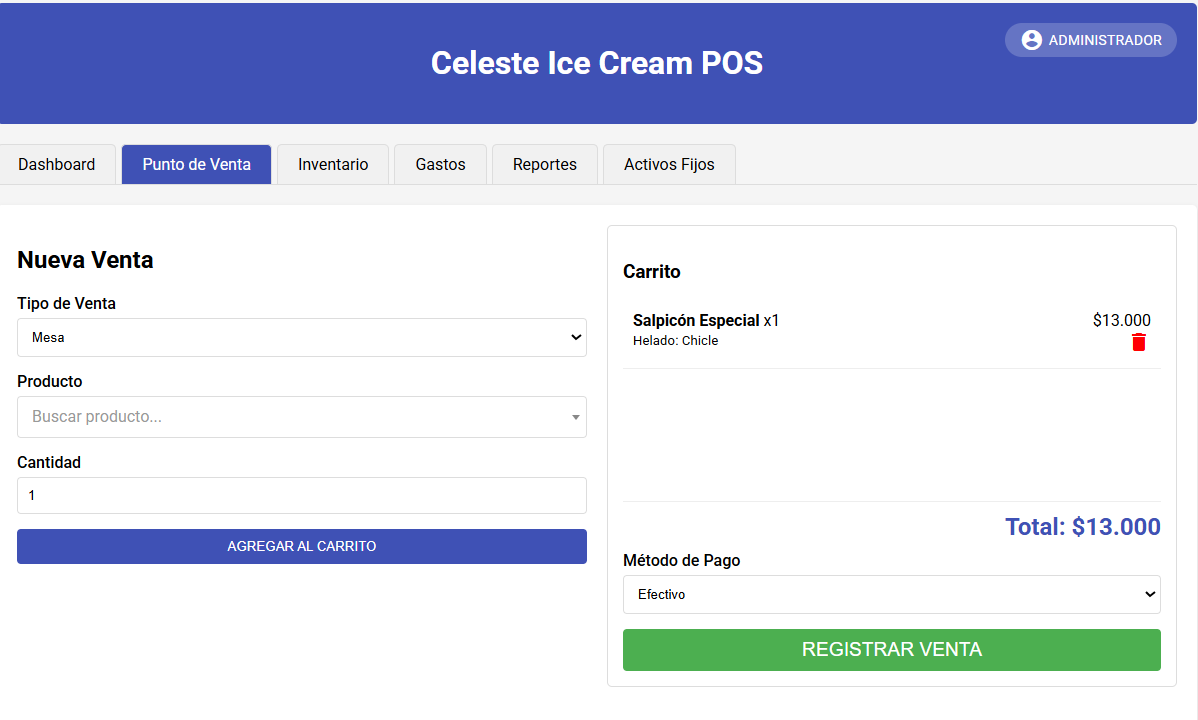
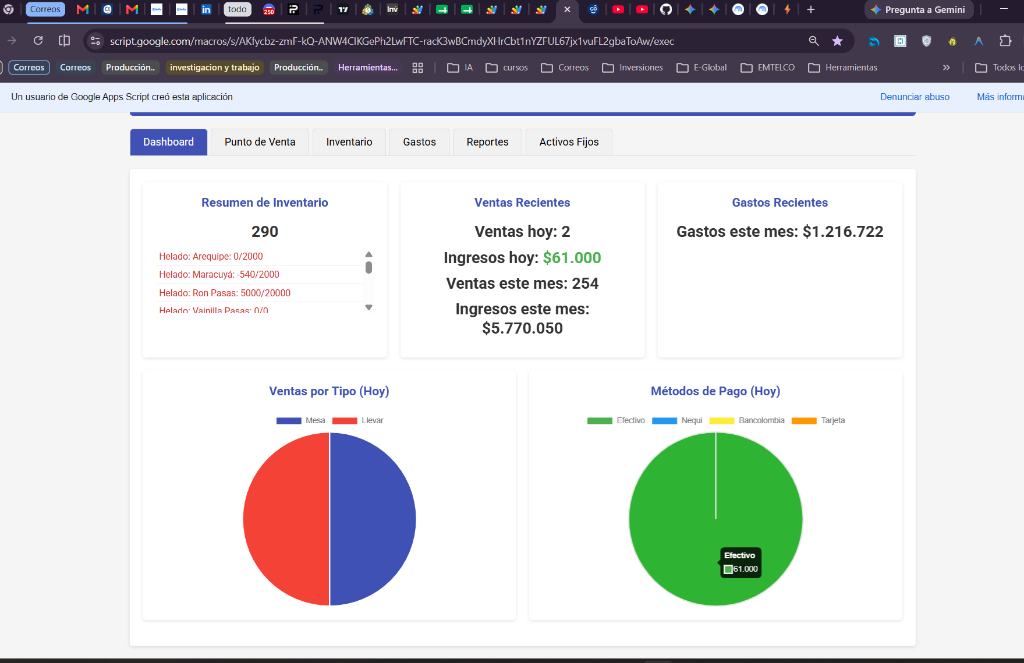
feat: Add advanced POS edit features, auto-payment method and double submission protection

diff --git a/index.html b/index.html
@@ -122,6 +122,10 @@
         <div class="dashboard-card">
           <h3>Gastos Recientes</h3>
           <p>Gastos este mes: <span id="month-expenses">0</span></p>
+          <div style="margin-top: 15px; padding-top: 15px; border-top: 1px solid #eee;">
+            <h4 style="margin: 0; color: #3f51b5;">Balance del Mes</h4>
+            <p style="font-size: 20px; font-weight: bold;">Margen: <span id="month-balance" style="color: #3f51b5;">$0</span></p>
+          </div>
         </div>
       </div>
       
@@ -149,6 +153,10 @@
             </select>
           </div>
           <div class="form-group">
+            <label>Cliente / Mesa (Opcional)</label>
+            <input type="text" id="customer-name" placeholder="Ej: Juan o Mesa 3">
+          </div>
+          <div class="form-group">
             <label>Producto</label>
             <select id="product-select" style="width:100%"><option></option></select>
           </div>
@@ -164,7 +172,7 @@
         </div>
         
         <div style="background:#fff; padding:15px; border-radius:5px; border:1px solid #ddd;"> 
-          <h3>Carrito</h3>
+          <h3 id="cart-title">Carrito</h3>
           <div id="cart-list" style="min-height:200px; max-height:400px; overflow-y:auto; border-bottom:1px solid #eee; margin-bottom:10px;">
             <p style="text-align:center; padding:20px; color:#999">Carrito Vacío</p>
           </div>
@@ -182,6 +190,11 @@
           </div>
           <button class="btn-success" onclick="processSale()" style="width:100%; font-size:1.2em">REGISTRAR VENTA</button>
         </div>
+      </div>
+
+      <div style="margin-top: 20px;">
+        <h3>Últimos Pedidos (20)</h3>
+        <div id="recent-orders-list"></div>
       </div>
     </div>
     
@@ -268,6 +281,9 @@
     let ACTIVE_USER = "Desconocido";
     let products = [], flavors = [], cart = [];
     let chart1 = null, chart2 = null;
+    let currentOrderId = null;
+    let recentOrdersData = [];
+    let editingRegisteredRowIndex = null;
 
     $(document).ready(function() {
       let storedUser = localStorage.getItem('celeste_pos_user');
@@ -321,7 +337,7 @@
       $(`.tab[data-tab="${tab}"]`).addClass('active');
       $('.tab-content').hide();
       $(`#${tab}-content`).fadeIn();
-      if(tab === 'pos') { loadProducts(); loadFlavors(); }
+      if(tab === 'pos') { loadProducts(); loadFlavors(); loadRecentOrders(); }
       if(tab === 'inventory') loadInventory();
       if(tab === 'expenses') loadExpenses();
       if(tab === 'assets') loadAssets();
@@ -339,11 +355,12 @@
       $('#month-sales-count').text(data.monthSalesCount);
       $('#month-revenue').text(data.monthRevenue);
       $('#month-expenses').text(data.monthExpenses);
+      $('#month-balance').text(data.monthBalance);
       
       if(chart1) chart1.destroy();
       chart1 = new Chart(document.getElementById('sale-type-chart'), { type: 'pie', data: { labels: ['Mesa', 'Llevar'], datasets: [{ data: [data.todayMesaCount, data.todayLlevarCount], backgroundColor: ['#3f51b5', '#f44336'] }] }, options: { responsive: true, maintainAspectRatio: false } });
       if(chart2) chart2.destroy();
-      const pData = [parseInt(data.paymentMethodsToday.EFECTIVO.replace(/\D/g,''))||0, parseInt(data.paymentMethodsToday.NEQUI.replace(/\D/g,''))||0, parseInt(data.paymentMethodsToday.BANCOLOMBIA.replace(/\D/g,''))||0, parseInt(data.paymentMethodsToday.TARJETA.replace(/\D/g,''))||0];
+      const pData = [parseInt(String(data.paymentMethodsToday.EFECTIVO).replace(/\D/g,''))||0, parseInt(String(data.paymentMethodsToday.NEQUI).replace(/\D/g,''))||0, parseInt(String(data.paymentMethodsToday.BANCOLOMBIA).replace(/\D/g,''))||0, parseInt(String(data.paymentMethodsToday.TARJETA).replace(/\D/g,''))||0];
       chart2 = new Chart(document.getElementById('payment-method-chart'), { type: 'pie', data: { labels: ['Efectivo', 'Nequi', 'Bancolombia', 'Tarjeta'], datasets: [{ data: pData, backgroundColor: ['#4caf50', '#2196f3', '#ffeb3b', '#ff9800'] }] }, options: { responsive: true, maintainAspectRatio: false } });
     }
 
@@ -356,6 +373,7 @@
       }).getProducts();
     }
     function loadFlavors() { google.script.run.withSuccessHandler(res => flavors = res).getFlavors(); }
+    
     function onProductSelect() {
       const id = $('#product-select').val();
       const p = products.find(x => x.id === id);
@@ -371,6 +389,7 @@
         }
       } else { $('#flavor-section').hide(); }
     }
+    
     function addToCart() {
       const id = $('#product-select').val();
       if(!id) return showNotif("Selecciona producto", true);
@@ -383,28 +402,142 @@
         $('.flav-sel').each((i, el) => { if($(el).val()) flavs.push($(el).val()); });
         if(flavs.length < p.CANTIDAD_BOLAS) return showNotif("Faltan sabores", true);
       }
-      cart.push({ product: p, name: p.name, qty: qty, price: price, total: price*qty, flavors: flavs });
+      cart.push({ id_cart: Date.now(), product: p, name: p.name, qty: qty, price: price, total: price*qty, flavors: flavs, editRowIndex: editingRegisteredRowIndex });
+      editingRegisteredRowIndex = null;
       renderCart();
       $('#product-select').val(null).trigger('change'); $('#qty').val(1); $('#flavor-section').hide();
     }
+    
     function renderCart() {
       const $list = $('#cart-list'); $list.empty(); let total = 0;
       cart.forEach((item, idx) => {
         total += item.total;
-        $list.append(`<div style="padding:10px; border-bottom:1px solid #eee; display:flex; justify-content:space-between;"><div><b>${item.name}</b> x${item.qty}<br><small>${item.flavors.join(', ')}</small></div><div style="text-align:right">$${formatMoney(item.total)}<br><i class="material-icons" style="color:red; cursor:pointer;" onclick="remItem(${idx})">delete</i></div></div>`);
+        $list.append(`<div style="padding:10px; border-bottom:1px solid #eee; display:flex; justify-content:space-between;"><div><b>${item.name}</b> x${item.qty}<br><small>${item.flavors.join(', ')}</small></div><div style="text-align:right">$${formatMoney(item.total)}<br><i class="material-icons" style="color:#3f51b5; cursor:pointer; margin-right:5px;" title="Editar" onclick="editItem(${idx})">edit</i><i class="material-icons" style="color:red; cursor:pointer;" title="Eliminar" onclick="remItem(${idx})">delete</i></div></div>`);
       });
       $('#cart-total').text(formatMoney(total));
     }
+    
     function remItem(i) { cart.splice(i,1); renderCart(); }
+    
+    function editItem(i) {
+      const item = cart[i];
+      $('#product-select').val(item.product.id).trigger('change');
+      onProductSelect();
+      $('#qty').val(item.qty);
+      setTimeout(() => {
+        if(item.product.CANTIDAD_BOLAS > 0 && item.flavors && item.flavors.length > 0) {
+          $('.flav-sel').each((idx, el) => {
+             $(el).val(item.flavors[idx] || '');
+          });
+        }
+      }, 100);
+      editingRegisteredRowIndex = item.editRowIndex || null;
+      remItem(i);
+    }
+    
     function updateCartPrices() {
        const type = $('#sale-type').val();
        cart.forEach(item => { item.price = type === 'MESA' ? item.product.PRECIO_MESA : item.product.PRECIO_LLEVAR; item.total = item.price * item.qty; });
        renderCart();
     }
+    
     function processSale() {
       if(cart.length === 0) return showNotif("Carrito vacío", true);
-      const sale = { items: cart, type: $('#sale-type').val(), payMethod: $('#payment-method').val(), user: ACTIVE_USER };
-      google.script.run.withSuccessHandler(() => { cart = []; renderCart(); showNotif("Venta registrada!"); }).withFailureHandler(e => showNotif(e.message, true)).registerSale(sale);
+      const sale = { 
+         items: cart, type: $('#sale-type').val(), payMethod: $('#payment-method').val(), 
+         user: ACTIVE_USER, customer: $('#customer-name').val(), orderId: currentOrderId 
+      };
+      
+      const btn = $('.btn-success');
+      btn.prop('disabled', true).text('PROCESANDO...');
+      
+      google.script.run.withSuccessHandler(() => { 
+         cart = []; 
+         currentOrderId = null;
+         editingRegisteredRowIndex = null;
+         $('#customer-name').val('');
+         $('#cart-title').text('Carrito');
+         renderCart(); 
+         loadRecentOrders();
+         showNotif("Venta registrada!"); 
+         btn.prop('disabled', false).text('REGISTRAR VENTA');
+      }).withFailureHandler(e => {
+         showNotif(e.message, true);
+         btn.prop('disabled', false).text('REGISTRAR VENTA');
+      }).registerSale(sale);
+    }
+    
+    function loadRecentOrders() {
+      $('#recent-orders-list').html('<p>Cargando pedidos recientes...</p>');
+      google.script.run
+        .withSuccessHandler(renderRecentOrders)
+        .withFailureHandler(e => { $('#recent-orders-list').html('<p style="color:red">Error: '+e.message+'</p>'); })
+        .getRecentOrders();
+    }
+
+    function renderRecentOrders(orders) {
+      recentOrdersData = orders;
+      if(!orders || orders.length === 0) {
+        $('#recent-orders-list').html('<p>No hay pedidos recientes.</p>'); return;
+      }
+      let html = '<div style="display: flex; gap: 15px; overflow-x: auto; padding-bottom: 10px;">';
+      orders.forEach(o => {
+        let itemsHtml = o.items.map((i, idx) => `
+          <li style="margin-bottom:3px; display:flex; justify-content:space-between; align-items:center; border-bottom:1px dashed #eee; padding-bottom:3px;">
+            <span>${i.qty}x ${i.name} ${i.flavors ? '<br><small style="color:#666">('+i.flavors+')</small>' : ''}</span>
+            <i class="material-icons" style="color:#3f51b5; cursor:pointer; font-size:18px; padding-left:5px;" title="Editar item" onclick="editRegisteredItem('${o.id}', ${idx})">edit</i>
+          </li>`).join('');
+        html += `
+          <div style="background: white; border: 1px solid #ddd; padding: 15px; border-radius: 5px; min-width: 250px; flex-shrink: 0;">
+            <h4 style="margin:0 0 5px 0; color: #3f51b5;">${o.customer || 'Sin Nombre / Mesa'}</h4>
+            <p style="margin: 0 0 10px 0; font-size: 0.8em; color: #777;">ID: ${o.id}</p>
+            <ul style="margin: 0 0 10px 0; padding-left: 0; font-size: 0.9em; max-height: 120px; overflow-y: auto; list-style:none;">
+              ${itemsHtml}
+            </ul>
+            <p style="margin: 0 0 10px 0; font-weight: bold;">Total: $${formatMoney(o.total)}</p>
+            <button style="width:100%; padding: 8px; font-size:0.9em;" onclick="addToExistingOrder('${o.id}', '${o.customer || ''}', '${o.type}', '${o.payMethod}')">Agregar a este pedido</button>
+          </div>
+        `;
+      });
+      html += '</div>';
+      $('#recent-orders-list').html(html);
+    }
+
+    function editRegisteredItem(orderId, itemIdx) {
+       const order = recentOrdersData.find(o => o.id === orderId);
+       if(!order) return;
+       const item = order.items[itemIdx];
+       
+       addToExistingOrder(order.id, order.customer, order.type, order.payMethod);
+       
+       const p = products.find(x => x.name === item.name);
+       if(!p) return showNotif("Producto no encontrado en BD", true);
+       
+       $('#product-select').val(p.id).trigger('change');
+       onProductSelect();
+       $('#qty').val(item.qty);
+       
+       setTimeout(() => {
+         if(p.CANTIDAD_BOLAS > 0 && item.flavors) {
+           const flavArr = item.flavors.split(',');
+           $('.flav-sel').each((idx, el) => {
+              $(el).val(flavArr[idx] ? flavArr[idx].trim() : '');
+           });
+         }
+       }, 100);
+       
+       editingRegisteredRowIndex = item.rowIndex;
+       showNotif("Editando producto del pedido...");
+    }
+
+    function addToExistingOrder(orderId, customer, type, payMethod) {
+      currentOrderId = orderId;
+      $('#customer-name').val(customer);
+      if (type) $('#sale-type').val(type).trigger('change');
+      if (payMethod) $('#payment-method').val(payMethod).trigger('change');
+      $('#cart-title').text('Carrito (Modificando: ' + (customer || orderId) + ')');
+      window.scrollTo({ top: 0, behavior: 'smooth' });
+      if(!editingRegisteredRowIndex) showNotif("Agregando a pedido existente");
     }
 
     function runReport() {

diff --git a/README.md b/README.md
@@ -9,6 +9,17 @@ Desarrollado con una arquitectura **Serverless** utilizando el ecosistema de Goo
 
 ---
 
+## 💡 Beneficios del Sistema
+
+Implementar Celeste POS transforma por completo la administración de tu negocio:
+* ⏱️ **Ahorro de Tiempo:** Automatiza tareas repetitivas y reportes manuales, ahorrando decenas de horas semanales en conciliaciones.
+* 📈 **Control Total del Negocio:** Monitorea ingresos, gastos, e inventario en tiempo real, desde cualquier lugar y en cualquier dispositivo.
+* 🚫 **Prevención de Pérdidas:** El control estricto de recetas e ingredientes evita fugas de inventario y descuadres de caja.
+* 🤝 **Mejor Experiencia del Cliente:** Facturación ultra rápida y sin errores que agiliza las filas y mejora la atención.
+* 📉 **Cero Costos de Servidor:** Al utilizar Google Workspace, no hay cobros mensuales por hosting o bases de datos externas.
+
+---
+
 ## 🚀 Características Principales
 
 ### 📊 Dashboard en Tiempo Real
@@ -16,10 +27,15 @@ Desarrollado con una arquitectura **Serverless** utilizando el ecosistema de Goo
 * Gráficos dinámicos (Chart.js) para análisis de métodos de pago y tipos de venta (Mesa/Llevar).
 * Alertas automáticas de stock bajo.
 
-### 🛒 Punto de Venta (POS) Ágil
+### 🛒 Punto de Venta (POS) Ágil e Inteligente
 * Interfaz optimizada para pantallas táctiles y escritorio.
 * Buscador inteligente de productos.
 * Gestión de productos compuestos (ej: Helado de 2 sabores) con descuento de inventario automático.
+* **Sistema Avanzado de Pedidos:** 
+  * Edición de pedidos recientes directamente desde la interfaz.
+  * Modificación de sabores en tiempo real con recálculo automático y restauración de inventario (evitando duplicidades).
+  * Detección inteligente de método de pago de pedidos previos.
+* Prevención de doble facturación (Double Submission Protection).
 * Soporte para múltiples métodos de pago (Efectivo, Transferencias, Tarjetas).
 
 ### 📦 Gestión de Inventario Avanzada